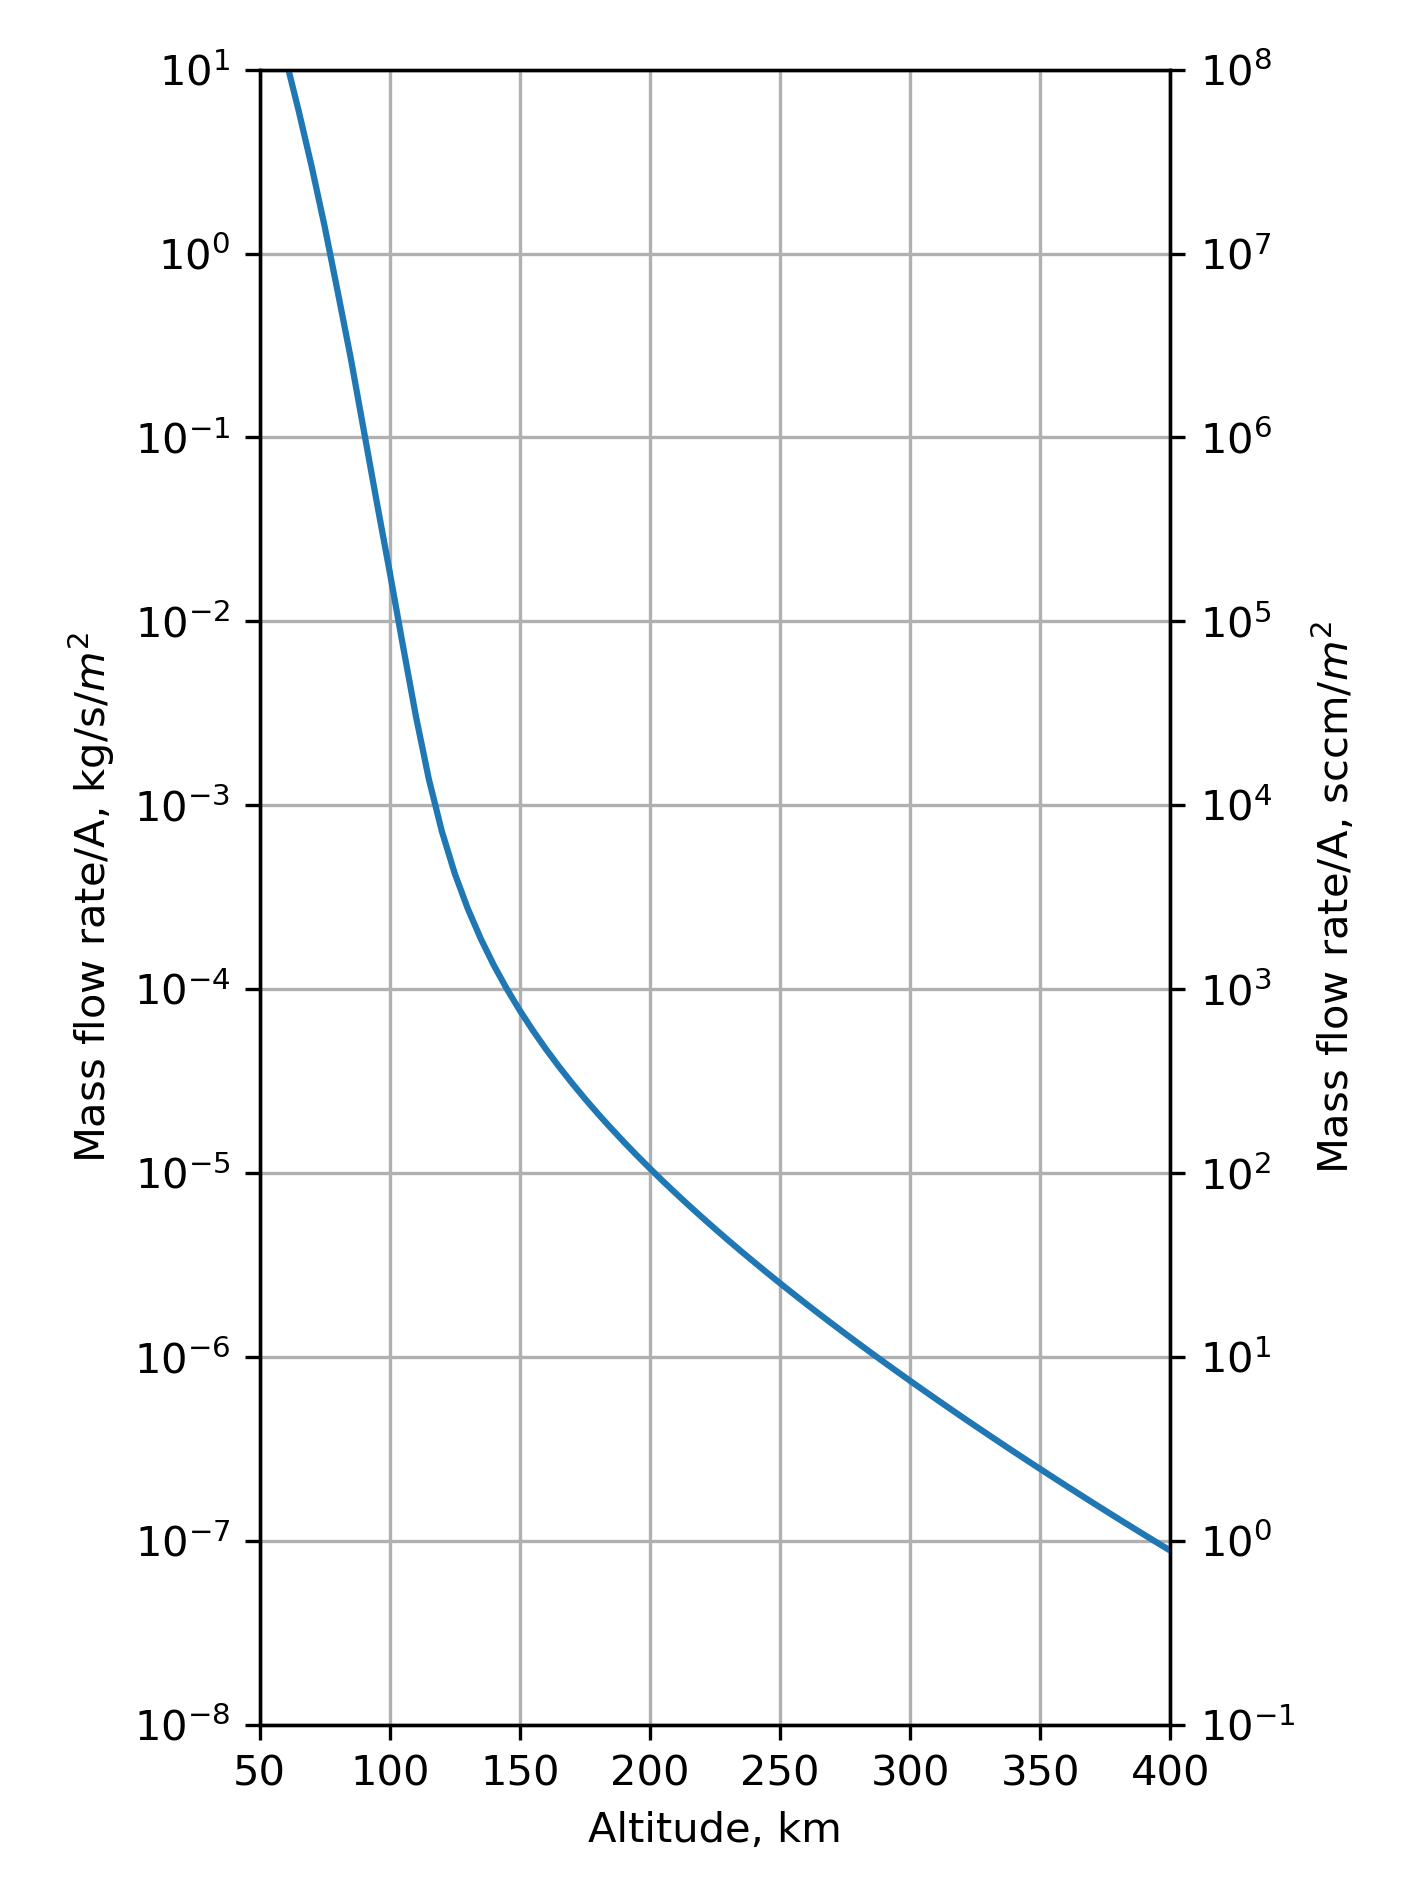
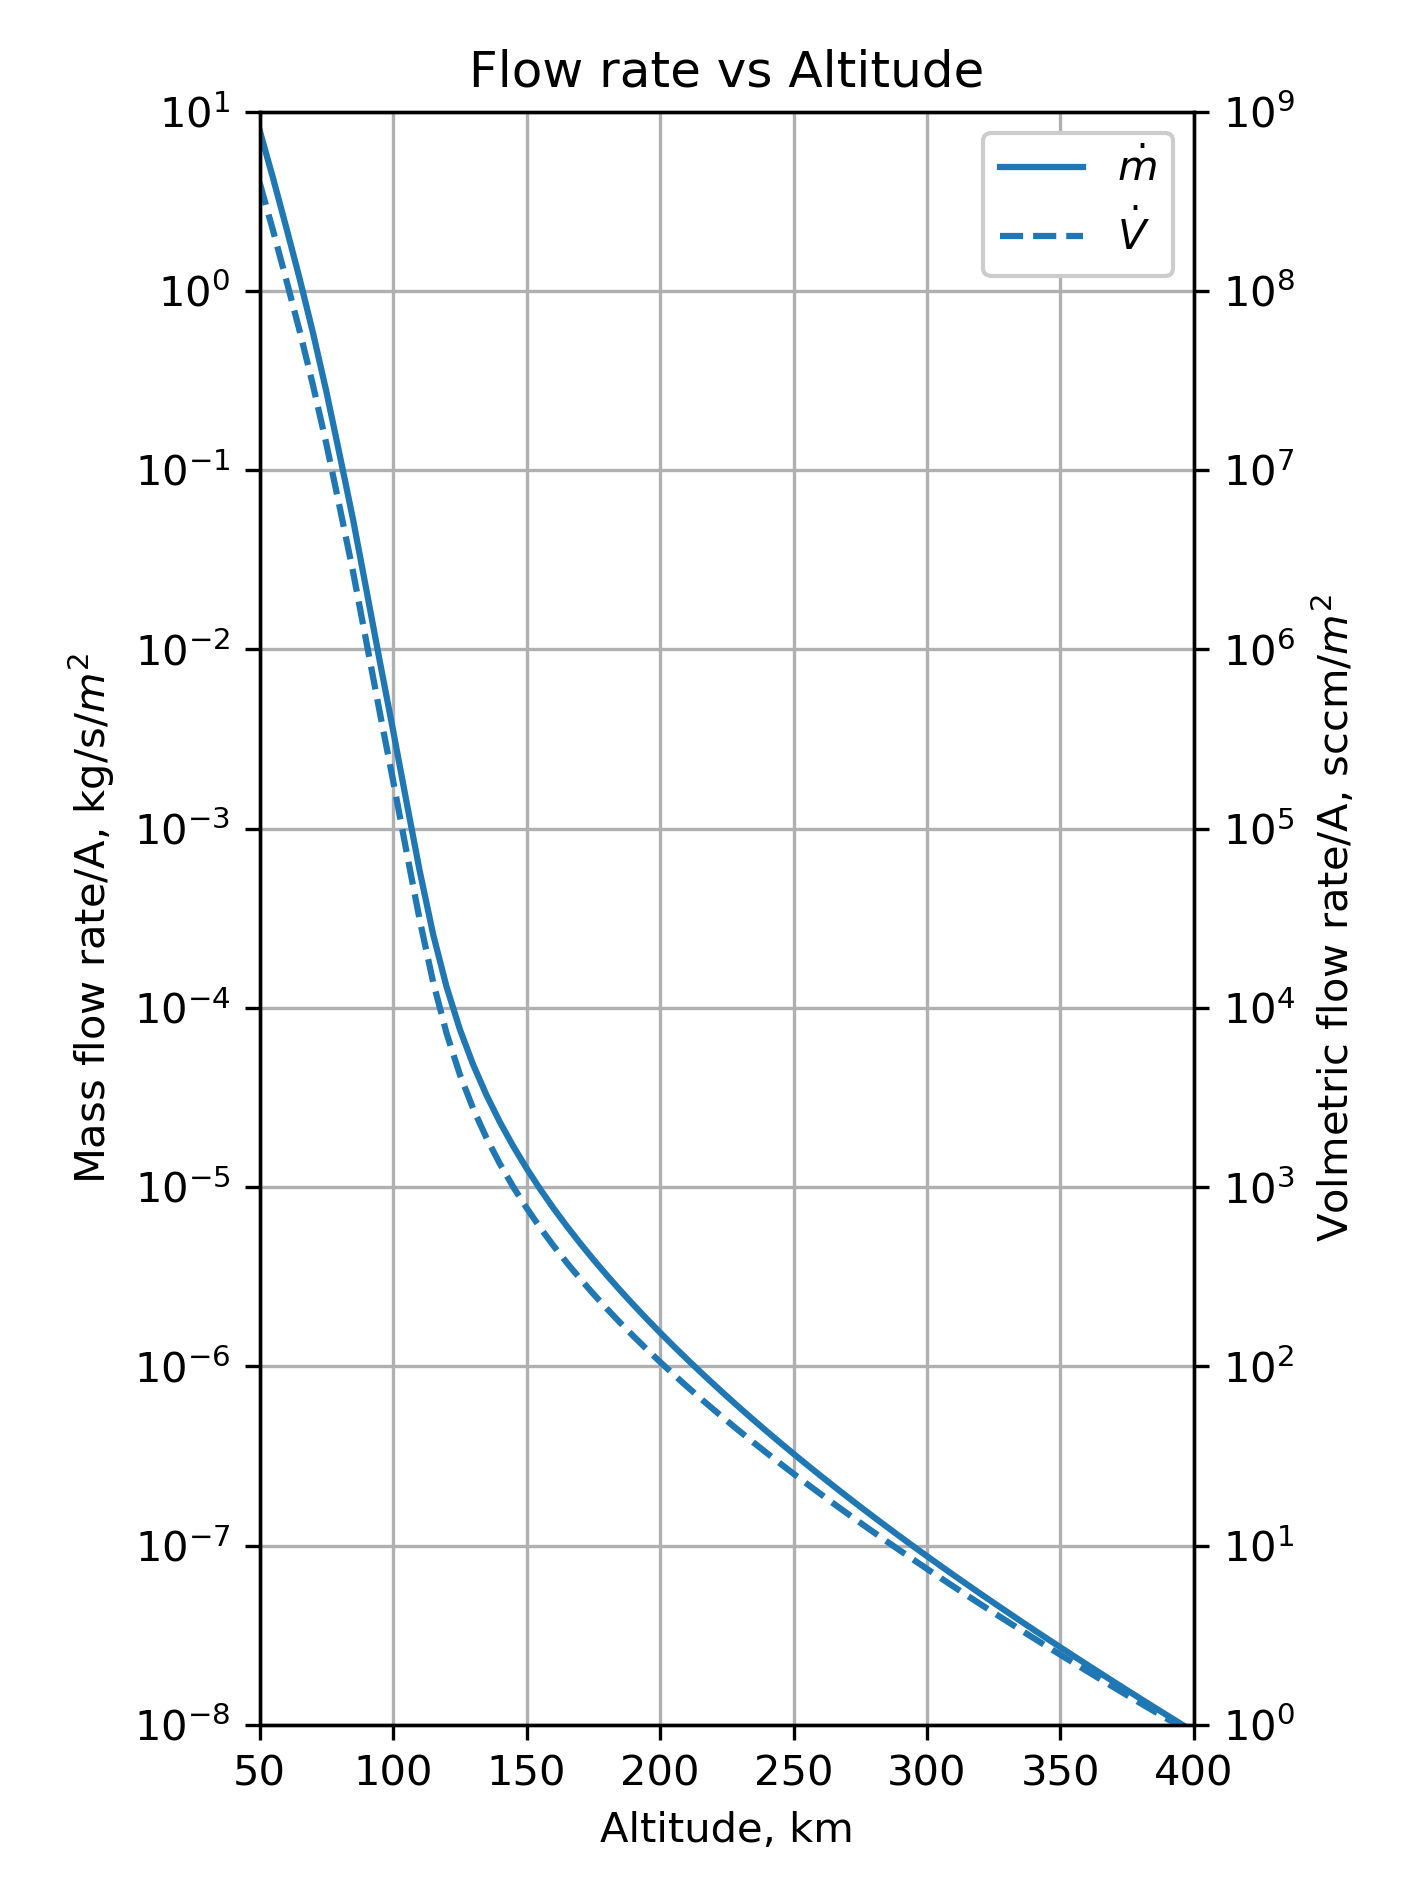
Update

diff --git a/Atmospheric_parameters_calculation.py b/Atmospheric_parameters_calculation.py
@@ -4,7 +4,7 @@ import matplotlib.pyplot as plt
 
 from functions import load_NRLMSIS_data, P_from_n_and_T, neutral_flux
 
-R_a = 8.314 # universal gas constant [J/mol/K]
+R   = 8.314 # universal gas constant [J/mol/K]
 k_B = 1.380649e-23 # Boltzmann constant [J/K]
 N_A = 6.022e23 # Avogadro's number [#/mole]
 G = 6.674e-11 # Gravitational constant [m^3/kg/s^2]
@@ -30,8 +30,11 @@ n_total = n_N2 + n_O2 + n_N + n_O + n_Ar + n_He + n_H
 # total mass density [kg/m^-3]
 m_total = (n_N2*28 + n_O2*32 + n_N*14 + n_O*16 + n_Ar*40 + n_He*2 + n_H*1)/1000/N_A
 
-# average "air" molar mass [kg/mole]
+# average "air" molar mass [kg/mol]
 M_ave   = (n_N2*28 + n_O2*32 + n_N*14 + n_O*16 + n_Ar*40 + n_He*2 + n_H*1)/n_total/1000
+
+# average "air" mass [kg]
+m_air   = M_ave/N_A
 
 # atmospheric parameter
 A_sc = 1.0 # cross-sectional area [m^2]
@@ -43,25 +46,29 @@ V_dot = np.zeros(len(h)) # volumetric flow rate [sccm]
 for i in range(0,len(h)):
     P[i] = P_from_n_and_T(n_total[i],T[i])
     Γ[i], v_sc[i] = neutral_flux(h[i],n_total[i])
-    m_dot[i] = A_sc*Γ[i]*M_ave[i] # [kg/s]
-    V_dot[i] = m_dot[i]*R_a*300/(M_ave[i]*N_A)/101325*60*1e6 # [sccm]
+    m_dot[i] = m_air[i]*Γ[i]*A_sc
+    V_dot[i] = m_dot[i]/m_air[i]/N_A*(R*300/101325)*60*1e6
 
 # plots
 figure_size = (4.75,6.33)
 
 fig, ax = plt.subplots(figsize=figure_size)
-ax.semilogy(h,m_dot/A_sc)
+l1 = ax.semilogy(h,m_dot/A_sc,label='$\dot{m}$')
 ax.set_xlim(50,400)
 ax.set_xlabel('Altitude, km')
 ax.set_ylim(1e-8,1e1)
 ax.set_yticks(np.logspace(-8,1,10))
 ax.set_ylabel('Mass flow rate/A, kg/s/$m^2$')
 ax2 = ax.twinx()
-ax2.semilogy(h,V_dot)
-ax2.set_ylim(1e-1,1e8)
-ax2.set_yticks(np.logspace(-1,8,10))
-ax2.set_ylabel('Mass flow rate/A, sccm/$m^2$')
+l2 = ax2.semilogy(h,V_dot,'--',label='$\dot{V}$')
+ax2.set_ylim(1e0,1e9)
+ax2.set_yticks(np.logspace(0,9,10))
+ax2.set_ylabel('Volmetric flow rate/A, sccm/$m^2$')
 ax.grid()
+ax.set_title('Flow rate vs Altitude')
+lns = l1+l2
+labs = [l.get_label() for l in lns]
+ax.legend(lns,labs,framealpha=1.0)
 fig.tight_layout()
 fig.savefig('Mass flow rate vs Altitude',dpi=300)
 plt.show()
@@ -81,7 +88,8 @@ ax.set_ylim(1e14,1e23)
 ax.set_yticks(np.logspace(14,23,10))
 ax.set_ylabel('Number density, m$^-$$^3$')
 ax.grid()
-ax.legend()
+ax.legend(framealpha=1.0)
+ax.set_title('Density vs Altitude')
 fig.tight_layout()
 fig.savefig('Density vs Altitude',dpi=300)
 plt.show()
@@ -99,15 +107,16 @@ ax2.set_ylim(1e-7*760/101325,1e2*760/101325)
 ax2.set_yticks(np.logspace(-9,0,10))
 ax2.set_ylabel('Pressure, Torr')
 ax.grid()
+ax.set_title('Pressure vs Altitude')
 fig.tight_layout()
 fig.savefig('Pressure vs Altitude',dpi=300)
 plt.show()
-#%%
+#%
 x = 10
-print('h    = {} km'.format(h[x]))
-print('v_sc = {:.2f} m/s'.format(v_sc[x]))
-print('T    = {:.1f} K'.format(T[x]))
-print('P    = {:.1e} Pa'.format(P[x]))
+print('h       = {} km'.format(h[x]))
+print('v_sc    = {:.2f} m/s'.format(v_sc[x]))
+print('T       = {:.1f} K'.format(T[x]))
+print('P       = {:.1e} Pa'.format(P[x]))
 print('n_total = {:.2e} m^-3'.format(n_total[x]))
 print('n_N2    = {:.2e} m^-3 ({:.1f}%)'.format(n_N2[x],n_N2[x]/n_total[x]*100))
 print('n_O2    = {:.2e} m^-3 ({:.1f}%)'.format(n_O2[x],n_O2[x]/n_total[x]*100))
@@ -116,4 +125,5 @@ print('n_O     = {:.2e} m^-3 ({:.1f}%)'.format(n_O[x],n_O[x]/n_total[x]*100))
 print('n_Ar    = {:.2e} m^-3 ({:.1f}%)'.format(n_Ar[x],n_Ar[x]/n_total[x]*100))
 print('n_He    = {:.2e} m^-3 ({:.1f}%)'.format(n_He[x],n_He[x]/n_total[x]*100))
 print('n_H     = {:.2e} m^-3 ({:.1f}%)'.format(n_H[x],n_H[x]/n_total[x]*100))
-print('V_dot = {:.2e} sccm'.format(V_dot[x]))
+print('m_dot/A = {:.2e} kg/s/m^2'.format(m_dot[x]))
+print('V_dot/A = {:.2e} sccm/m^2'.format(V_dot[x]))
